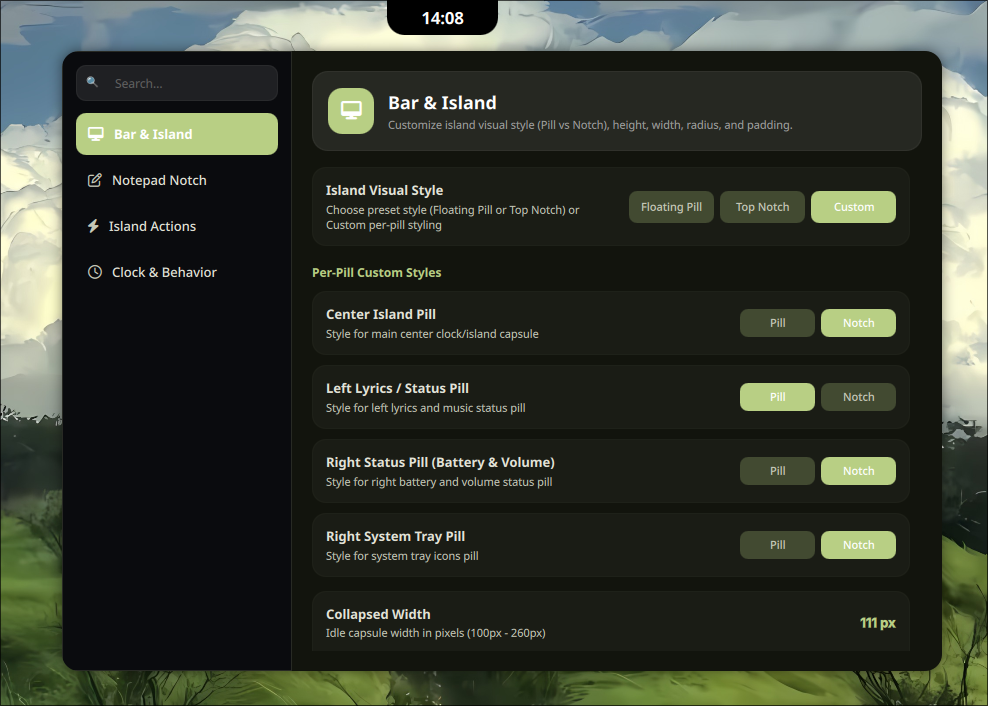
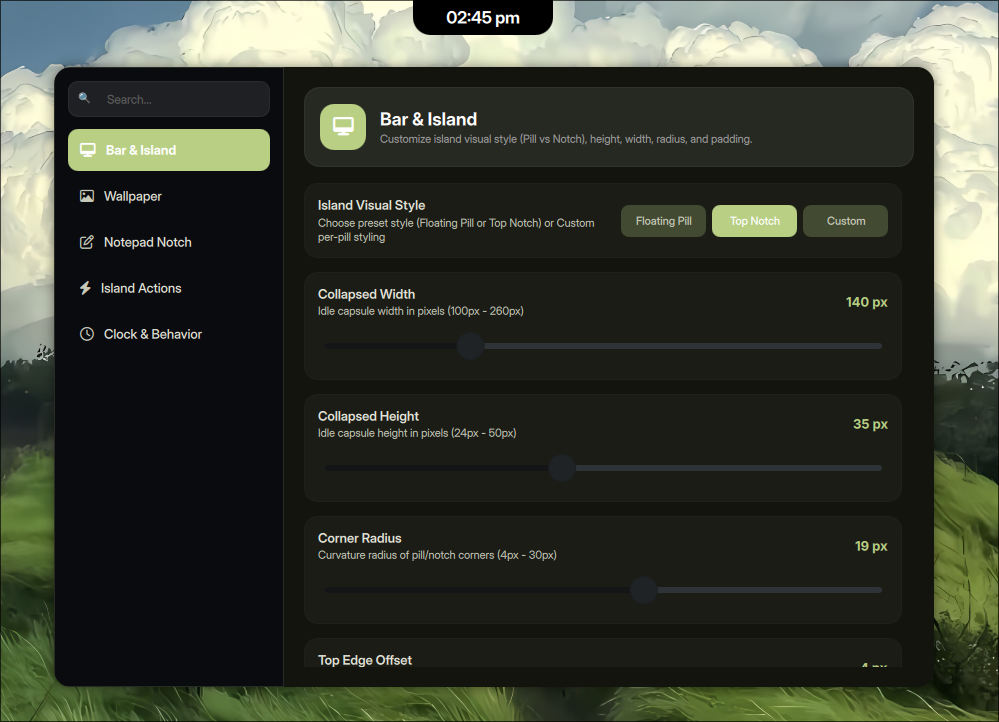
refactor: remove wallpaper notif; update readme

diff --git a/tide-island/bin/random_wallpaper.py b/tide-island/bin/random_wallpaper.py
@@ -186,17 +186,6 @@ def main():
         except Exception:
             pass
 
-        # Send desktop notification
-        try:
-            subprocess.Popen(
-                ["notify-send", "-a", "Tide Island", "-i", chosen_wallpaper, "Wallpaper Changed", wp_name],
-                stdout=subprocess.DEVNULL,
-                stderr=subprocess.DEVNULL,
-                start_new_session=True
-            )
-        except Exception:
-            pass
-
     output = {
         "status": "success",
         "wallpaper": chosen_wallpaper,
